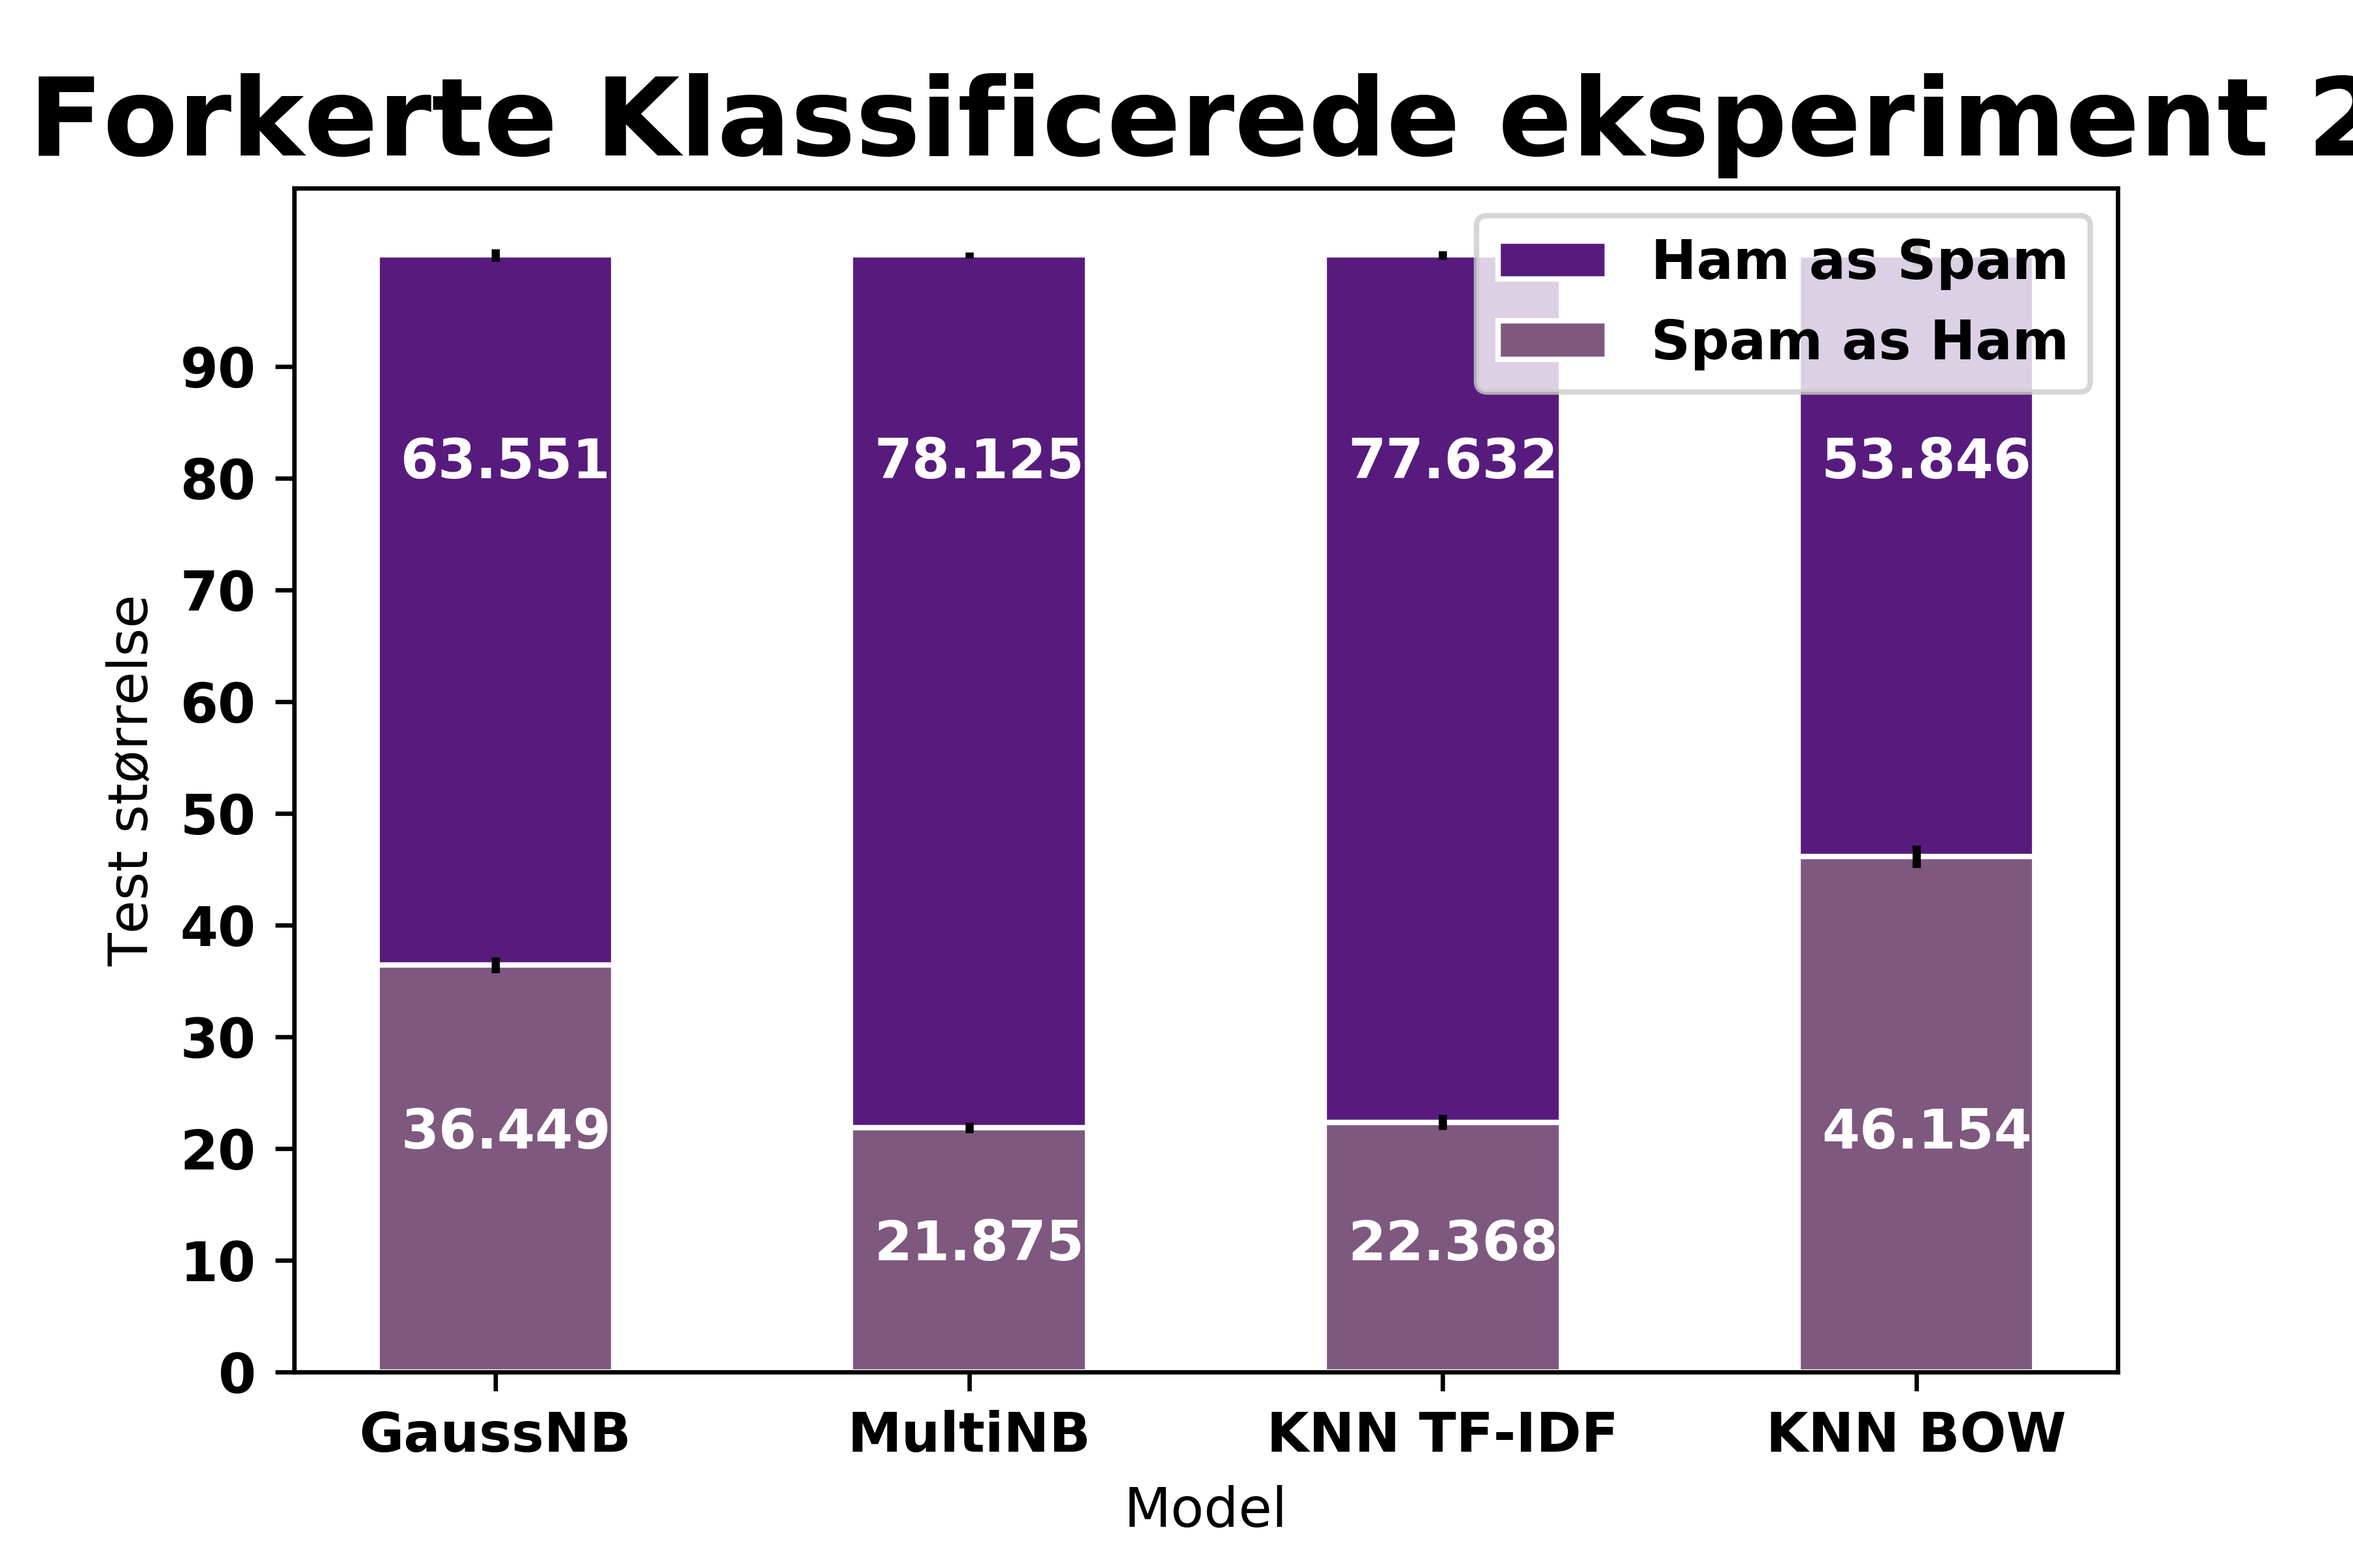
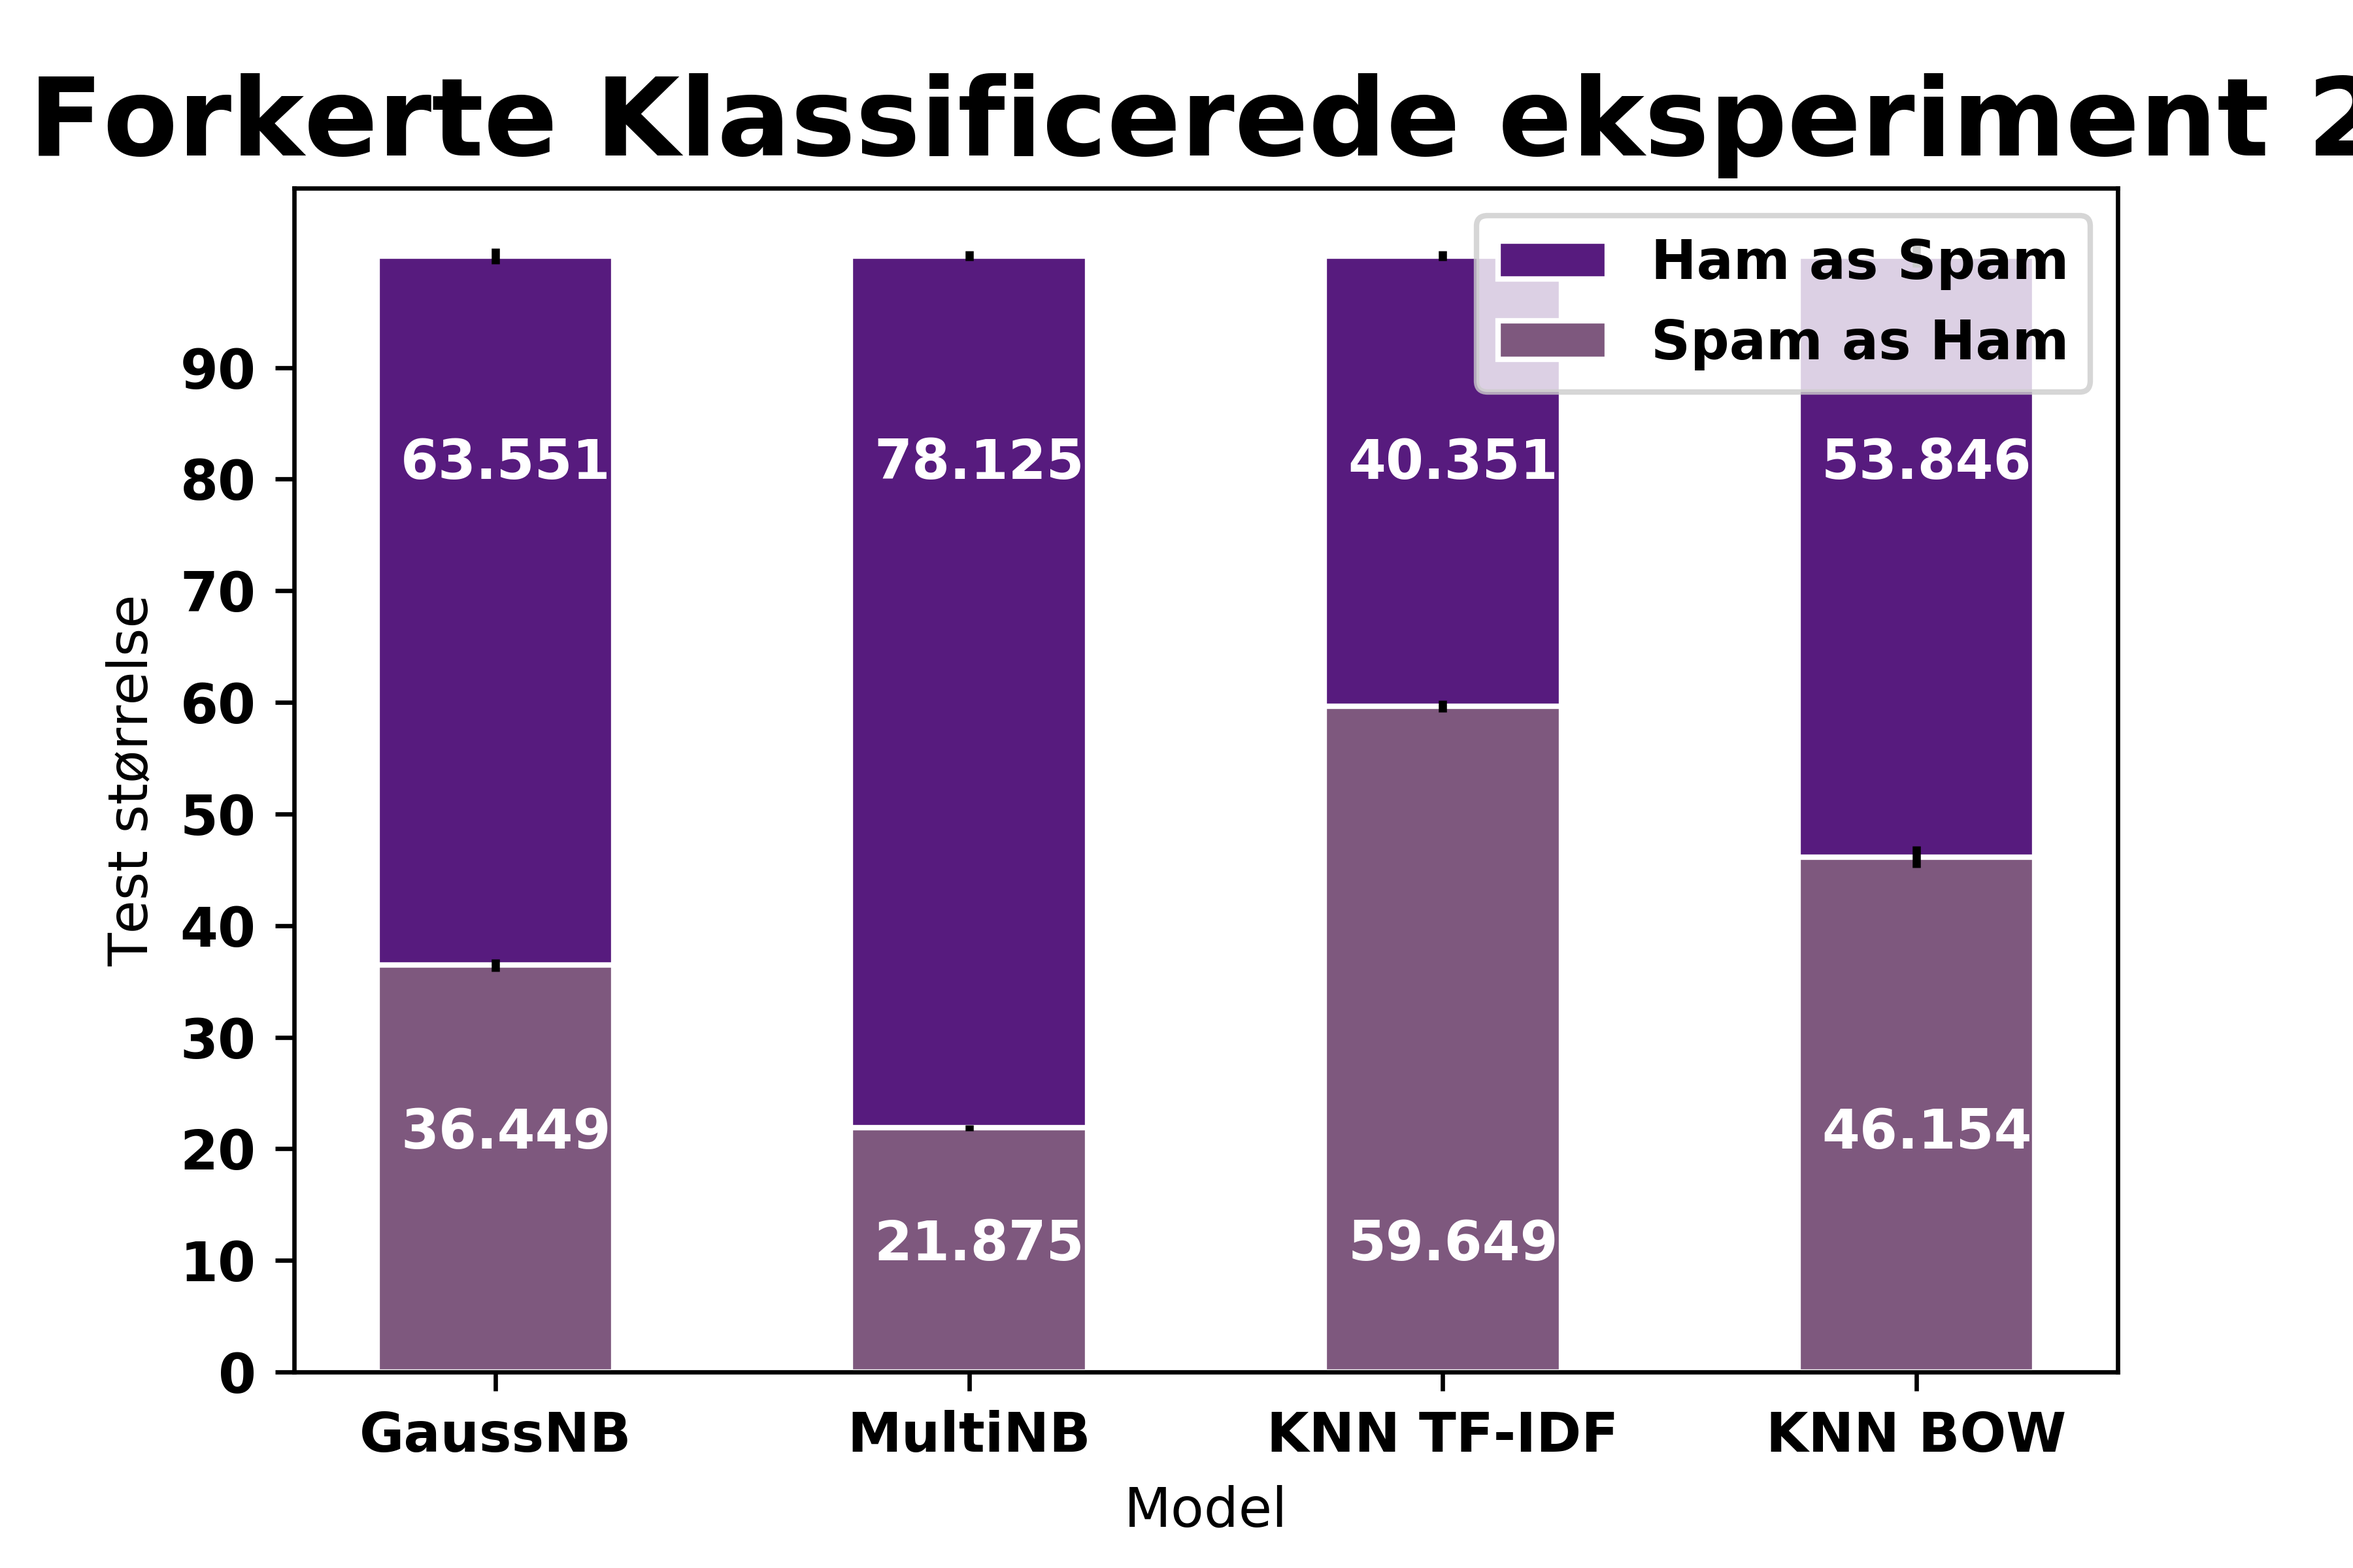
Updated

Changed region(s): [[0.56, 0.4375, 0.6844, 0.7188], [0.56, 0.7812, 0.6533, 0.8125], [0.56, 0.2812, 0.6533, 0.3125]]

diff --git a/Statistik/bars2.py b/Statistik/bars2.py
@@ -22,7 +22,7 @@ Eks1_KT = np.array([[1708,18],[53,489]])
 Eks1_KB = np.array([[1642,84],[192,350]])
 Eks2_NBG = np.array([[1658,68],[39,503]])
 Eks2_NBM = np.array([[1701,25],[7,535]])
-Eks2_KT = np.array([[1667,59],[17,525]])
+Eks2_KT = np.array([[1703,23],[34,508]])
 Eks2_KB = np.array([[1579,147],[126,416]])
 
 per1_NBG = round((Eks1_NBG[0,1]/(Eks1_NBG[1,0]+Eks1_NBG[0,1]))*100,ndigits = 3)
@@ -60,31 +60,31 @@ conf_int_KB1 = 0.007847257165*100
 
 
 p17 = plt.bar(position_x[0],per2_NBG+per1_NBG,color = '#571B7E',edgecolor = 'white', 
-        width = width_bars,yerr = conf_int_NBG)
+        width = width_bars,yerr = conf_int_NBG1)
 
 p18 = plt.bar(position_x[0],per2_NBG,color = '#7E587E',edgecolor = 'white', 
-        width = width_bars,yerr = conf_int_NBG1)
+        width = width_bars,yerr = conf_int_NBG)
 
 
 p19 = plt.bar(position_x[1],per1_NBM+per2_NBM,color = '#571B7E',edgecolor = 'white', 
-        width = width_bars,yerr = conf_int_NBM)
+        width = width_bars,yerr = conf_int_NBM1)
 
 p20 = plt.bar(position_x[1],per2_NBM,color = '#7E587E',edgecolor = 'white', 
-        width = width_bars,yerr = conf_int_NBM1)
+        width = width_bars,yerr = conf_int_NBM)
 
 
 p21 = plt.bar(position_x[2],per1_KT+per2_KT,color = '#571B7E',edgecolor = 'white', 
-        width = width_bars,yerr = conf_int_KT)
+        width = width_bars,yerr = conf_int_KT1)
 
 p22 = plt.bar(position_x[2],per2_KT,color = '#7E587E',edgecolor = 'white', 
-        width = width_bars,yerr = conf_int_KT1)
+        width = width_bars,yerr = conf_int_KT)
 
 
 p23 = plt.bar(position_x[3],per1_KB+per2_KB,color = '#571B7E',edgecolor = 'white', 
-        width = width_bars,yerr = conf_int_KB)
+        width = width_bars,yerr = conf_int_KB1)
 
 p24 = plt.bar(position_x[3],per2_KB,color = '#7E587E',edgecolor = 'white', 
-        width = width_bars,yerr = conf_int_KB1)
+        width = width_bars,yerr = conf_int_KB)
 
 
 plt.text(position_x[0]-0.2,80,per1_NBG,color='white')
@@ -133,38 +133,38 @@ conf_int_NBG1 = 0.007105608219*100
 conf_int_NBM = 0.002582897147*100
 conf_int_NBM1 = 0.004455881530*100
 
-conf_int_KT = 0.003744561580*100
-conf_int_KT1 = 0.006646650907*100
+conf_int_KT = 0.005134885106*100
+conf_int_KT1 = 0.004289583451*100
 
 conf_int_KB = 0.009481148660*100
 conf_int_KB1 = 0.01017915464*100
 
 p17 = plt.bar(position_x[0],per2_NBG+per1_NBG,color = '#571B7E',edgecolor = 'white', 
-        width = width_bars,yerr = conf_int_NBG)
+        width = width_bars,yerr = conf_int_NBG1)
 
 p18 = plt.bar(position_x[0],per2_NBG,color = '#7E587E',edgecolor = 'white', 
-        width = width_bars,yerr = conf_int_NBG1)
+        width = width_bars,yerr = conf_int_NBG)
 
 
 p19 = plt.bar(position_x[1],per1_NBM+per2_NBM,color = '#571B7E',edgecolor = 'white', 
-        width = width_bars,yerr = conf_int_NBM)
+        width = width_bars,yerr = conf_int_NBM1)
 
 p20 = plt.bar(position_x[1],per2_NBM,color = '#7E587E',edgecolor = 'white', 
-        width = width_bars,yerr = conf_int_NBM1)
+        width = width_bars,yerr = conf_int_NBM)
 
 
 p21 = plt.bar(position_x[2],per1_KT+per2_KT,color = '#571B7E',edgecolor = 'white', 
-        width = width_bars,yerr = conf_int_KT)
+        width = width_bars,yerr = conf_int_KT1)
 
 p22 = plt.bar(position_x[2],per2_KT,color = '#7E587E',edgecolor = 'white', 
-        width = width_bars,yerr = conf_int_KT1)
+        width = width_bars,yerr = conf_int_KT)
 
 
 p23 = plt.bar(position_x[3],per1_KB+per2_KB,color = '#571B7E',edgecolor = 'white', 
-        width = width_bars,yerr = conf_int_KB)
+        width = width_bars,yerr = conf_int_KB1)
 
 p24 = plt.bar(position_x[3],per2_KB,color = '#7E587E',edgecolor = 'white', 
-        width = width_bars,yerr = conf_int_KB1)
+        width = width_bars,yerr = conf_int_KB)
 
 
 plt.text(position_x[0]-0.2,80,per1_NBG,color='white')

diff --git a/Statistik/bars1.py b/Statistik/bars1.py
@@ -17,7 +17,7 @@ Eks1_KB = np.array([[1642,84],[192,350]])
 
 Eks2_NBG = np.array([[1658,68],[39,503]])
 Eks2_NBM = np.array([[1701,25],[7,535]])
-Eks2_KT = np.array([[1667,59],[17,525]])
+Eks2_KT = np.array([[1703,23],[34,508]])
 Eks2_KB = np.array([[1579,147],[126,416]])
 
 rc('font',weight = 'bold')
@@ -188,10 +188,10 @@ conf_int_NBM2 = 0.01747300770*100
 conf_int_NBM3 = 0.004455881530*100
 conf_int_NBM4 = 0.01782112770*100
 
-conf_int_KT1 = 0.003744561580*100
-conf_int_KT2 = 0.01735880567*100
-conf_int_KT3 = 0.006646650907*100
-conf_int_KT4 = 0.01816337427*100
+conf_int_KT1 = 0.005134885106*100
+conf_int_KT2 = 0.01715851450*100
+conf_int_KT3 = 0.004289583451*100
+conf_int_KT4 = 0.01780012467*100
 
 conf_int_KB1 = 0.009481148660*100
 conf_int_KB2 = 0.01592790485*100

diff --git a/Statistik/KNNgraph.py b/Statistik/KNNgraph.py
@@ -40,7 +40,7 @@ def k_error_range(X_train_dtm, y_train, X_test_dtm, y_test):
     plt.title('Fejl for k[1;25]',fontsize = 30)
     plt.xlabel('K-værdi',fontsize = 20)
     plt.ylabel('Standard Fejl',fontsize = 20)
-    plt.savefig('error_fig_BOW')
+    plt.savefig('error_fig_TFIDF_5050')
     plt.show()
     
 def k_accuracy_range(X_train_dtm, y_train, X_test_dtm, y_test):
@@ -70,7 +70,7 @@ def k_accuracy_range(X_train_dtm, y_train, X_test_dtm, y_test):
     plt.title('Nøjagtighed for k[1;25]',fontsize = 30)
     plt.xlabel('K-værdi',fontsize = 20)
     plt.ylabel('Test præcision',fontsize = 20)
-    plt.savefig('accuracy_fig_BOW')
+    plt.savefig('accuracy_fig_TFIDF_5050')
     plt.show()
     
 

diff --git a/Statistik/Samlet_test_kode - TFIDF.py b/Statistik/Samlet_test_kode - TFIDF.py
@@ -30,7 +30,7 @@ SD_test_size = 2268           # None, int or float
  
 TFIDF_max_features = None           # None or int 
 
-KNN_k = 3
+KNN_k = 2
 
 # Change which model to run (GaussNB = 0, MultinomiaNB = 1 KNN = 2)
 model = 2
@@ -39,7 +39,7 @@ model = 2
 iterations = 1
 
 # Train-split mode 
-split = 0     # (0 = 24/76 and 1 = 50/50)
+split = 1     # (0 = 24/76 and 1 = 50/50)
 
 ###############################################################################
 ###############################################################################
